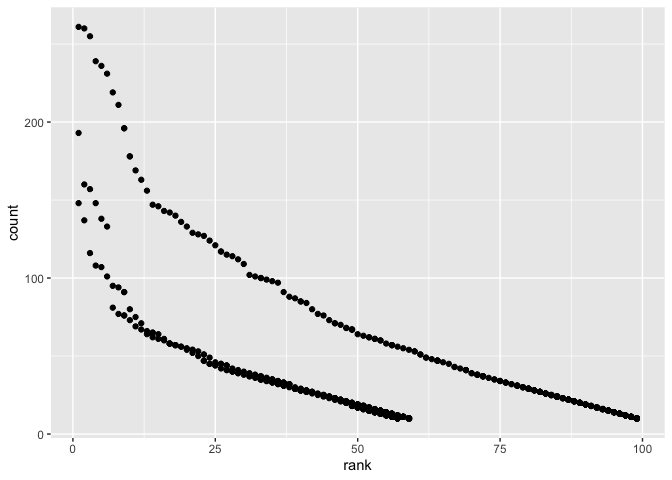
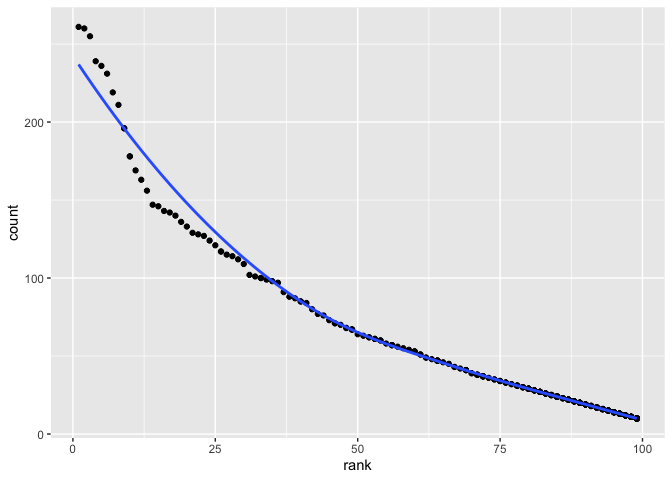
a scatter plot is created

diff --git a/p8105_hw2_xc2472.md b/p8105_hw2_xc2472.md
@@ -214,12 +214,19 @@ male_name =
     values_from = "rank")
 ```
 
-``` r
-male_nonhispanic = 
-  baby_names %>% 
-  filter(gender == "male", ethnicity != "hispanic", year_of_birth == 2016)
+A scatter plot is created for male, white non-hispanic children born in
+2016.
 
-ggplot(male_nonhispanic, aes(x = rank, y = count)) + geom_point()
+``` r
+male_white_nonhisp = 
+  baby_names %>% 
+  filter(gender == "male", ethnicity == "white non hispanic", year_of_birth == 2016)
+
+ggplot(male_white_nonhisp, aes(x = rank, y = count)) + 
+  geom_point() +
+  geom_smooth(se = FALSE)
 ```
+
+    ## `geom_smooth()` using method = 'loess' and formula 'y ~ x'
 
 ![](p8105_hw2_xc2472_files/figure-gfm/unnamed-chunk-12-1.png)<!-- -->
